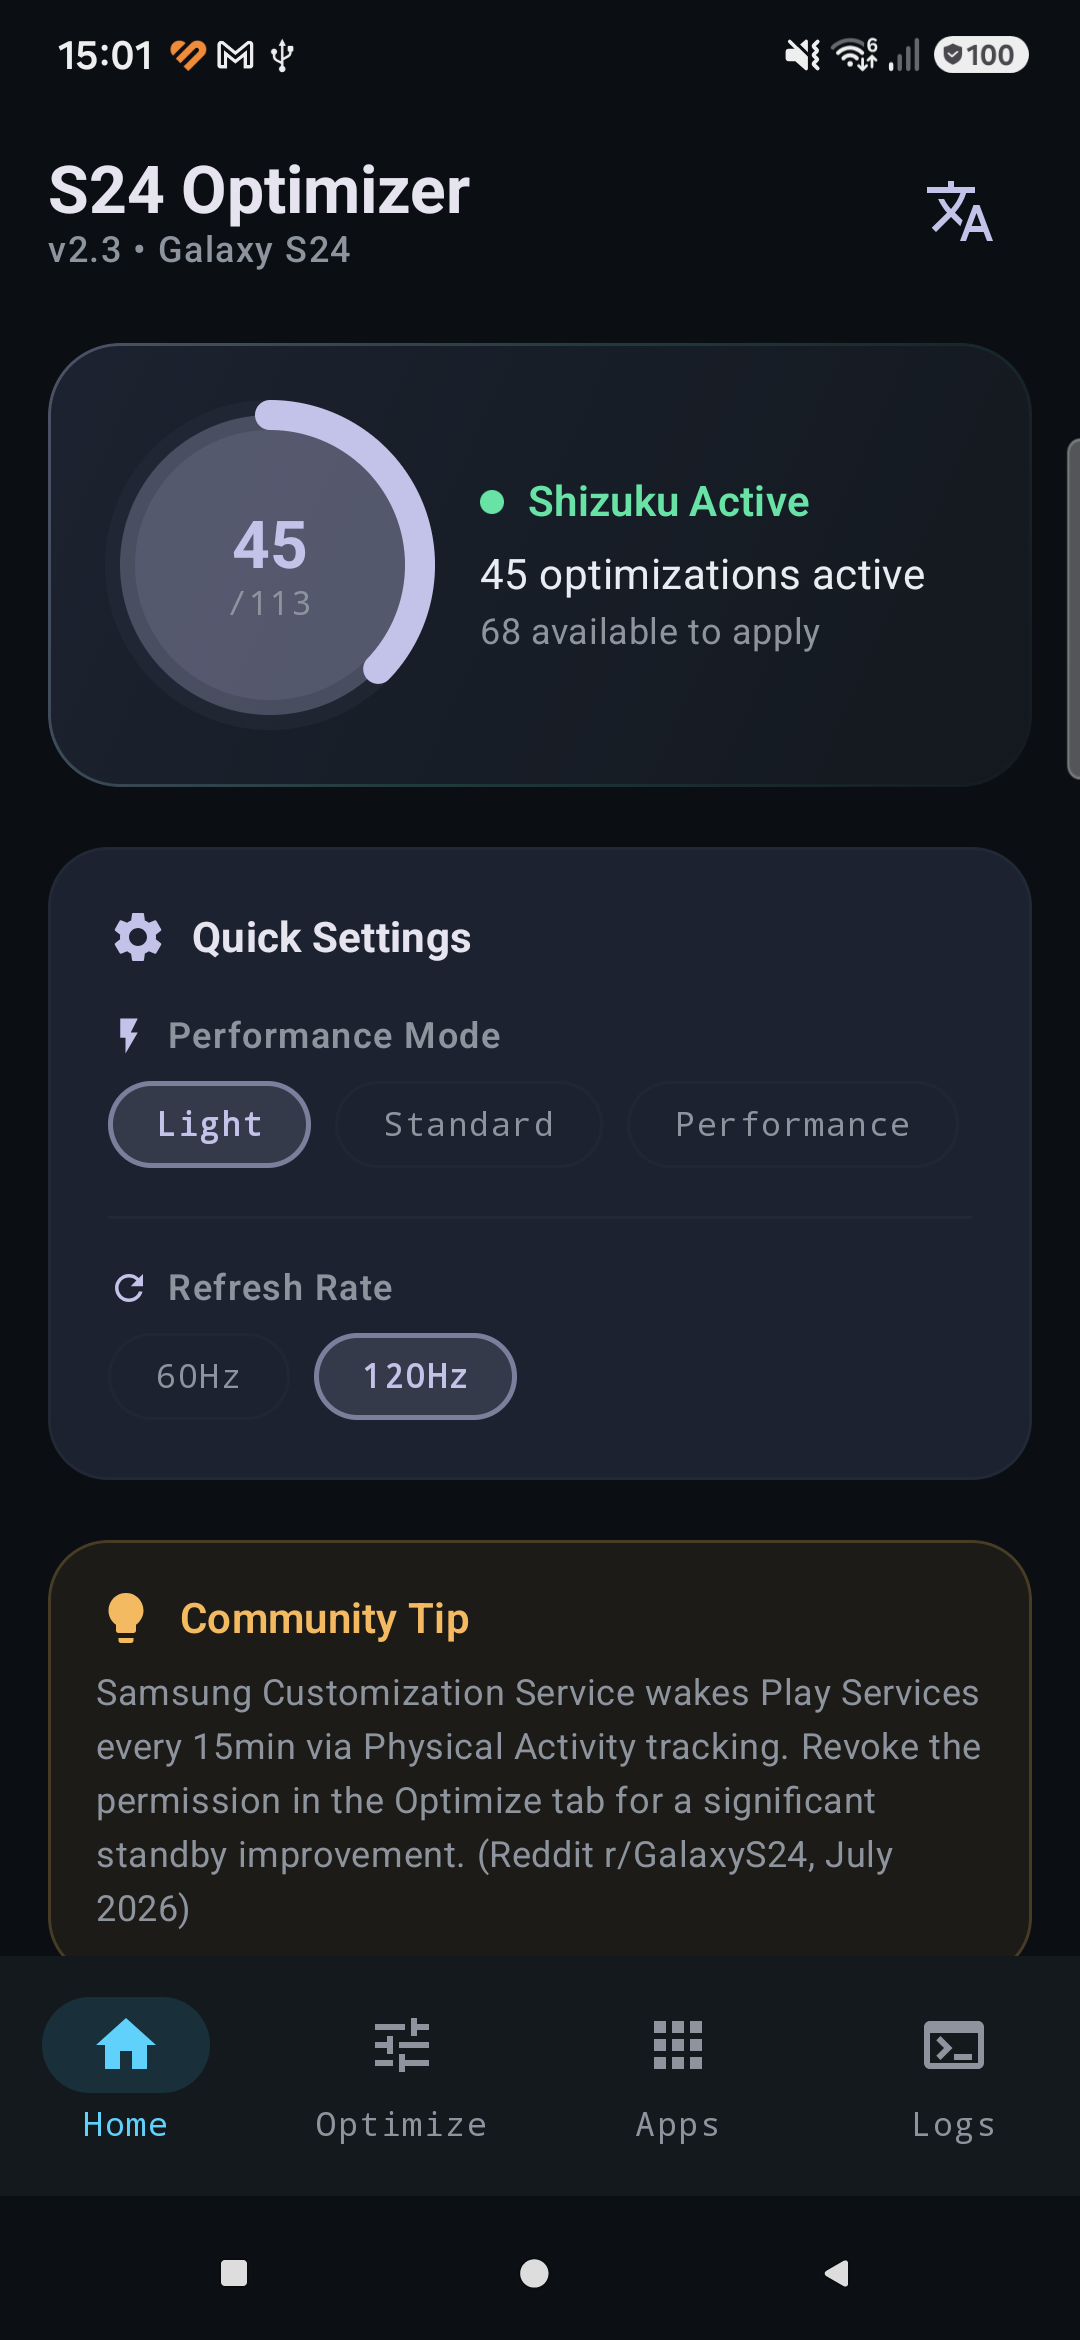
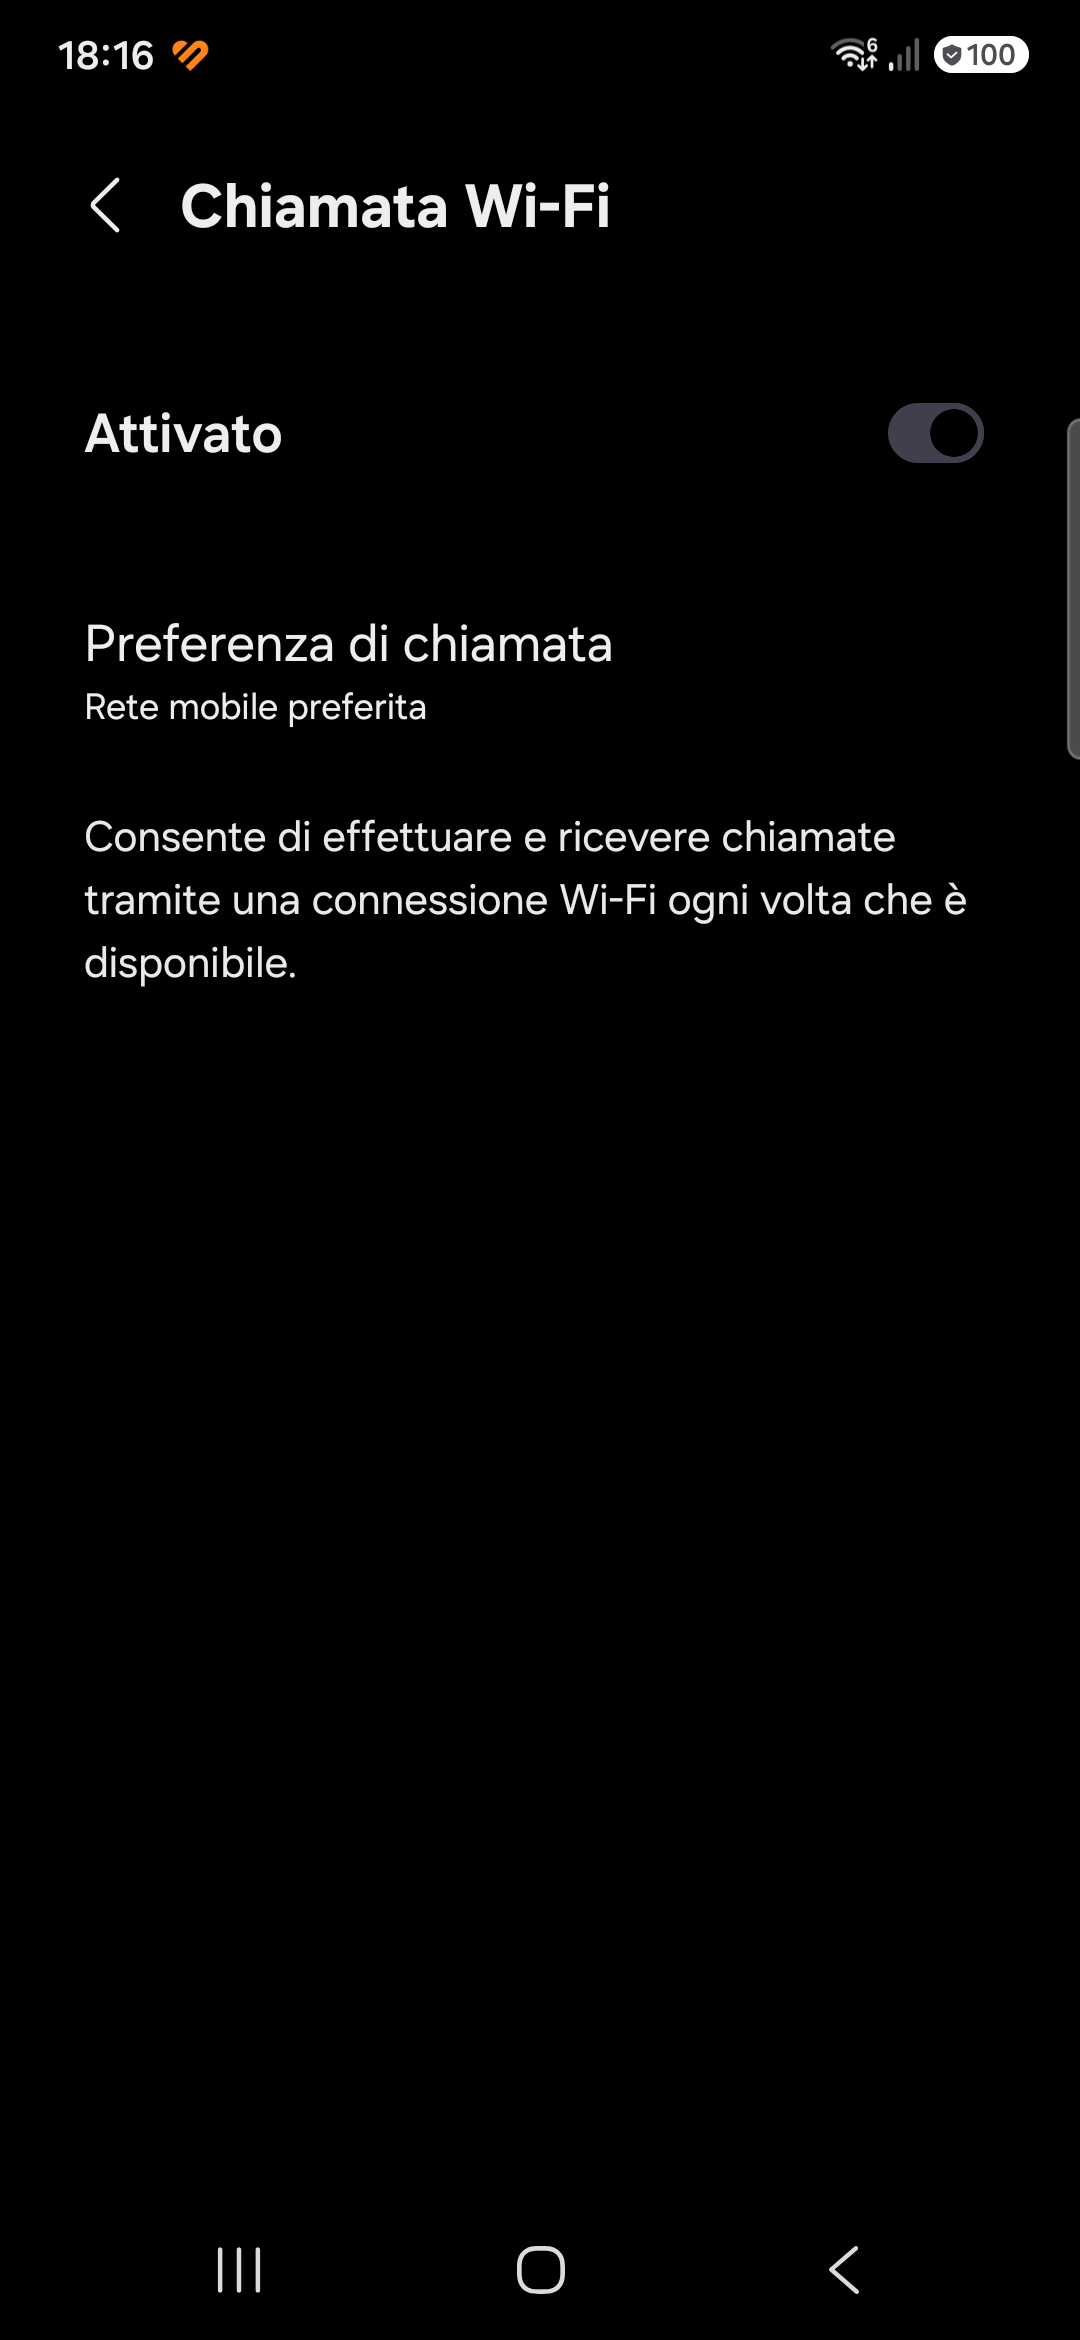
docs: update documentation, implementation plan and screenshots

diff --git a/README.md b/README.md
@@ -14,9 +14,9 @@
 
 | Model | One UI / Android |
 |-------|------------------|
-| SM-S921B (S24 base) | One UI 8.5 / Android 16 (tested on Exynos) |
-| SM-S926B (S24+) | One UI 8.5 / Android 16 (untested) |
-| SM-S928B (S24 Ultra) | One UI 8.5 / Android 16 (untested) |
+| SM-S921B (S24 base) | One UI 8.5 / Android 16 & One UI 9.0 Beta / Android 17 (tested on Exynos) |
+| SM-S926B (S24+) | One UI 8.5 / Android 16 & One UI 9.0 Beta (untested) |
+| SM-S928B (S24 Ultra) | One UI 8.5 / Android 16 & One UI 9.0 Beta (untested) |
 | S23, S22, S21 series | One UI 5+ / Android 13+ (untested) |
 
 ---
@@ -30,7 +30,7 @@
 | **Bixby** | agent, wakeup, vision, visionintelligence, 13 language packs | Always-listening assistant + AI |
 | **Samsung Apps** | Game Tools, GOS, Smart Suggestions, Aware Service, BBC Agent, Reminder, Routines, Routine Plus, Live Effect, OneConnect, STPlatform, Forest, Buds Manager, Rubin App, My Galaxy, Samsung Health | Bloat + background drain |
 | **Knox** | kpecore, attestation, pushmanager, container, analytics, zt framework | April 2026 attestation loop bug |
-| **App Update Center** | updatecenter, scpm, statsd, lool | Pushes "Experience" app recommendations + telemetry |
+| **App Update Center** | updatecenter, scpm, statsd | Pushes "Experience" app recommendations + telemetry |
 | **Samsung Pay** | spayfw | Payment service (Google Wallet unaffected) |
 | **Google** | Messages, Docs, Chromecast, Feedback, Supervision | Unused services |
 | **Facebook/Meta** | Facebook, Messenger | Social battery drain |
@@ -113,12 +113,20 @@ Latest release: **[v2.3](https://github.com/mich-de/samsung_s24_battery_life/rel
 New bloatware found after the S921BXXSGDZG1 OTA (July 27, 2026) that were pushing "Experience" app install recommendations:
 
 - **App Update Center** — pushes "Experience" app installs after OTA
-- **Device Protection / lool** — background scoring process
+- ~~**Device Protection / lool**~~ — withdrawn on 14 August. `lool` owns the `com.samsung.android.sm.dcapi` provider that system_server calls when Sleep mode changes the power saving mode; disabled, it crashed system_server in a loop until RescueParty rebooted the phone and rolled back the settings this app had written. Do not re-add.
 - **Smart Contextual Platform (scpm)** — usage pattern analytics
 - **Samsung Analytics (statsd)** — telemetry collection
 - **Theme Designer, Share Live, Easy Setup, SmartThings Find, Galaxy App Booster**
 
 New system toggles: **Samsung Error Reports OFF**, **Samsung HQM Telemetry OFF**
+
+### Scheduled Restart
+
+A weekly (or daily) reboot at a time you pick, driven by an alarm and `svc power reboot` — Samsung's own "Auto restart" is off and its UI is disabled from the factory on this device. It only fires while the phone is idle: screen off, charging, above 30%, no call in progress. Any condition not met and it retries every 15 minutes for up to 2 hours, then waits for the next day. A notification gives 60 seconds of warning with **Cancel**.
+
+Reboots done this way are tagged: `getprop ro.boot.bootreason` reads `reboot,s24opt_scheduled`, so they stay distinguishable from a crash-driven `reboot,rescueparty`.
+
+⚠ **Every reboot kills Shizuku** (its server runs as the shell user and cannot survive a boot), so everything that depends on it — the charge schedule included — stays frozen until Shizuku is started again. Weekly is safer than nightly until Shizuku starts on boot by itself.
 
 ### v1.1 — UI Redesign
 

diff --git a/IMPLEMENTATION_PLAN.MD b/IMPLEMENTATION_PLAN.MD
@@ -13,6 +13,7 @@ This project contains PowerShell, Shell, and Batch scripts alongside a companion
 - **s24-battery-revert.ps1**: Revert script to restore default settings and re-enable packages.
 - **s24-optimize.bat** / **s24-restore.bat**: Windows Batch scripts for basic automation and recovery.
 - **s24-optimize.sh** / **s24-restore.sh**: Unix Shell scripts (macOS/Linux) equivalent to the batch versions for cross-platform automation.
+- **auto_fota_retry.py**: Automated daemon to monitor Samsung FOTA updates over ADB, automatically handling TCP/HTTP 503 interruptions and resuming partial downloads (HTTP 206) without manual intervention.
 - **Companion App**: Kotlin-based Gradle project utilizing local system services to view or manage status.
 
 ## 3. Implementation Phases
